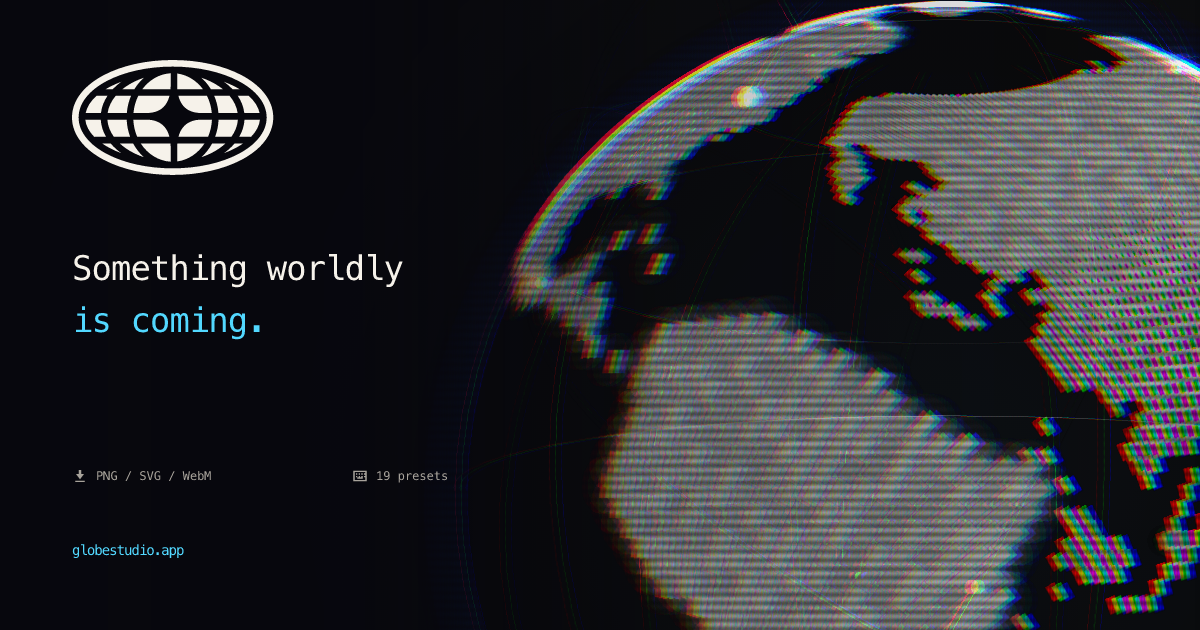
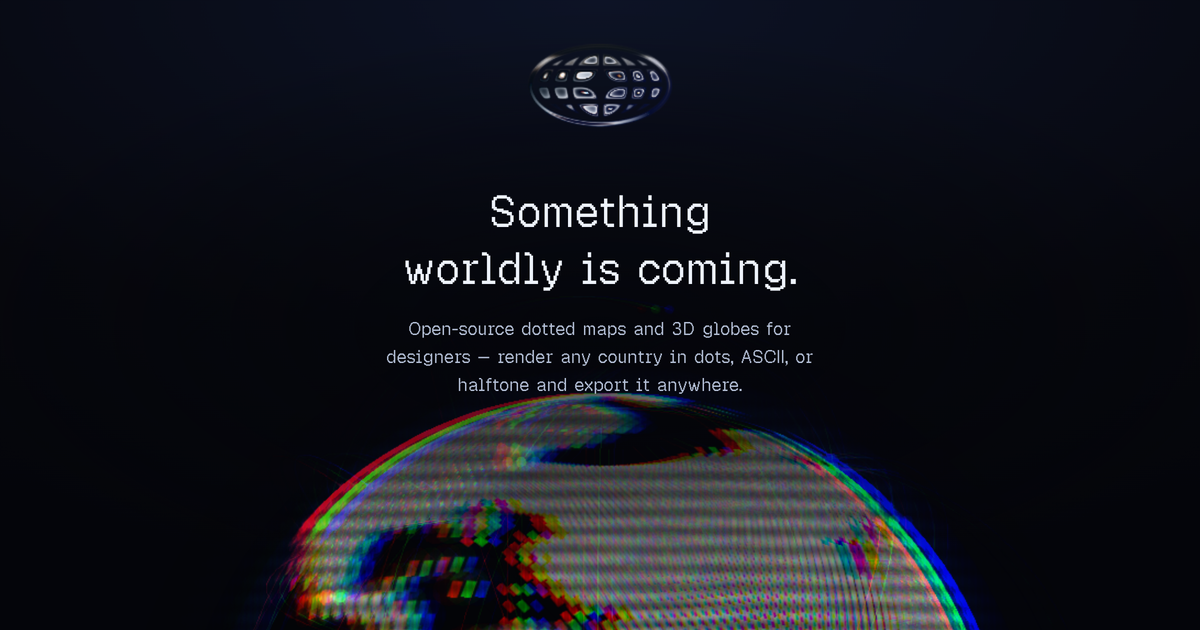
feat(og): static teaser share card — CRT globe + wordmark + teaser copy
Replaces the /looks/default card for the pre-launch teaser: a 1200x630 capture of the live teaser hero — wordmark, the 'Something worldly is coming.' headline + tagline, and the real CRT/corrupt globe — so sharing globestudio.app previews as the teaser itself. og:image + twitter:image both point to /og/teaser.png.

diff --git a/index.html b/index.html
@@ -75,11 +75,14 @@
       content="Designer-first tool for dotted maps and animated 3D globes. Gradients, shader effects, presets, and clean exports for landing pages, decks, and launches. Open source."
     />
     <meta property="og:url" content="https://globestudio.app/" />
-    <meta property="og:image" content="https://globestudio.app/og/default.png" />
+    <!-- Pre-launch teaser share card: the wordmark, the "Something worldly is
+         coming." copy, and the live CRT/corrupt globe — matches the teaser
+         landing page so the link previews as the teaser itself. -->
+    <meta property="og:image" content="https://globestudio.app/og/teaser.png" />
     <meta property="og:image:type" content="image/png" />
     <meta property="og:image:width" content="1200" />
     <meta property="og:image:height" content="630" />
-    <meta property="og:image:alt" content="Globestudio — designed share card showing the wordmark, a dot grid, and the dotted-globe descriptor." />
+    <meta property="og:image:alt" content="Globestudio teaser card — the wordmark, the headline Something worldly is coming, and a glitchy CRT dotted globe." />
 
     <!-- Twitter -->
     <meta name="twitter:card" content="summary_large_image" />
@@ -88,8 +91,8 @@
       name="twitter:description"
       content="Designer-first dotted maps and animated 3D globes. Gradients, shaders, presets, PNG / SVG / WebM exports. Open source."
     />
-    <meta name="twitter:image" content="https://globestudio.app/og/default.png" />
-    <meta name="twitter:image:alt" content="Globestudio — designed share card with the wordmark and a dotted-globe descriptor." />
+    <meta name="twitter:image" content="https://globestudio.app/og/teaser.png" />
+    <meta name="twitter:image:alt" content="Globestudio teaser card — the wordmark, the headline Something worldly is coming, and a glitchy CRT dotted globe." />
     <meta name="twitter:creator" content="@alevizio" />
     <meta name="twitter:site" content="@alevizio" />
 
